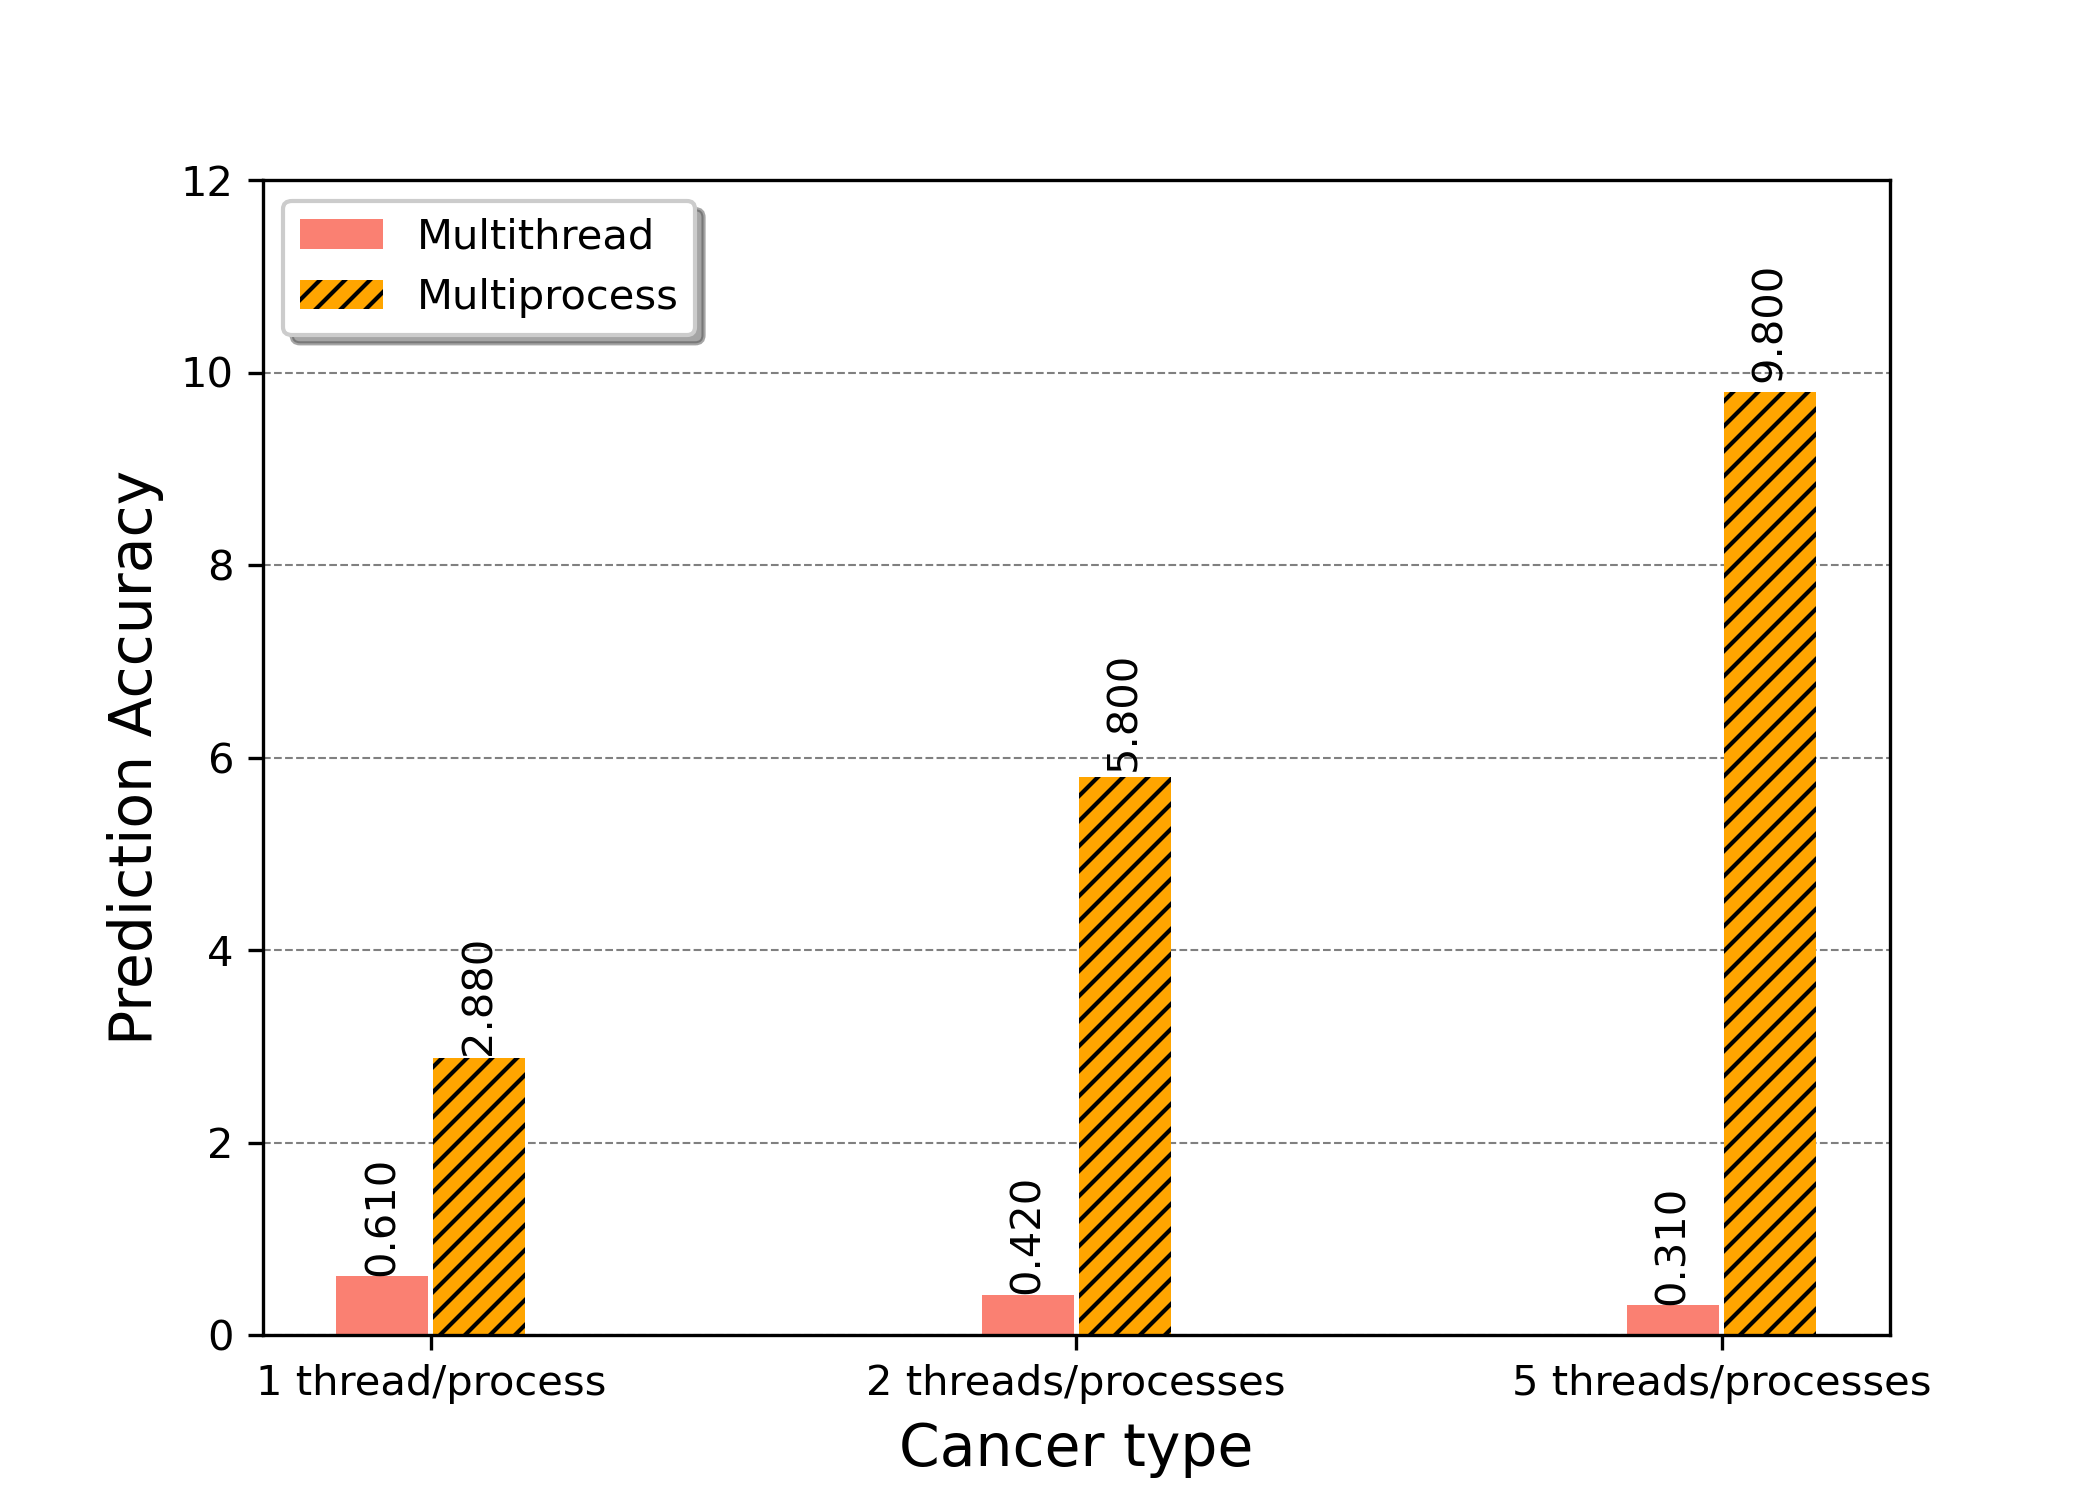
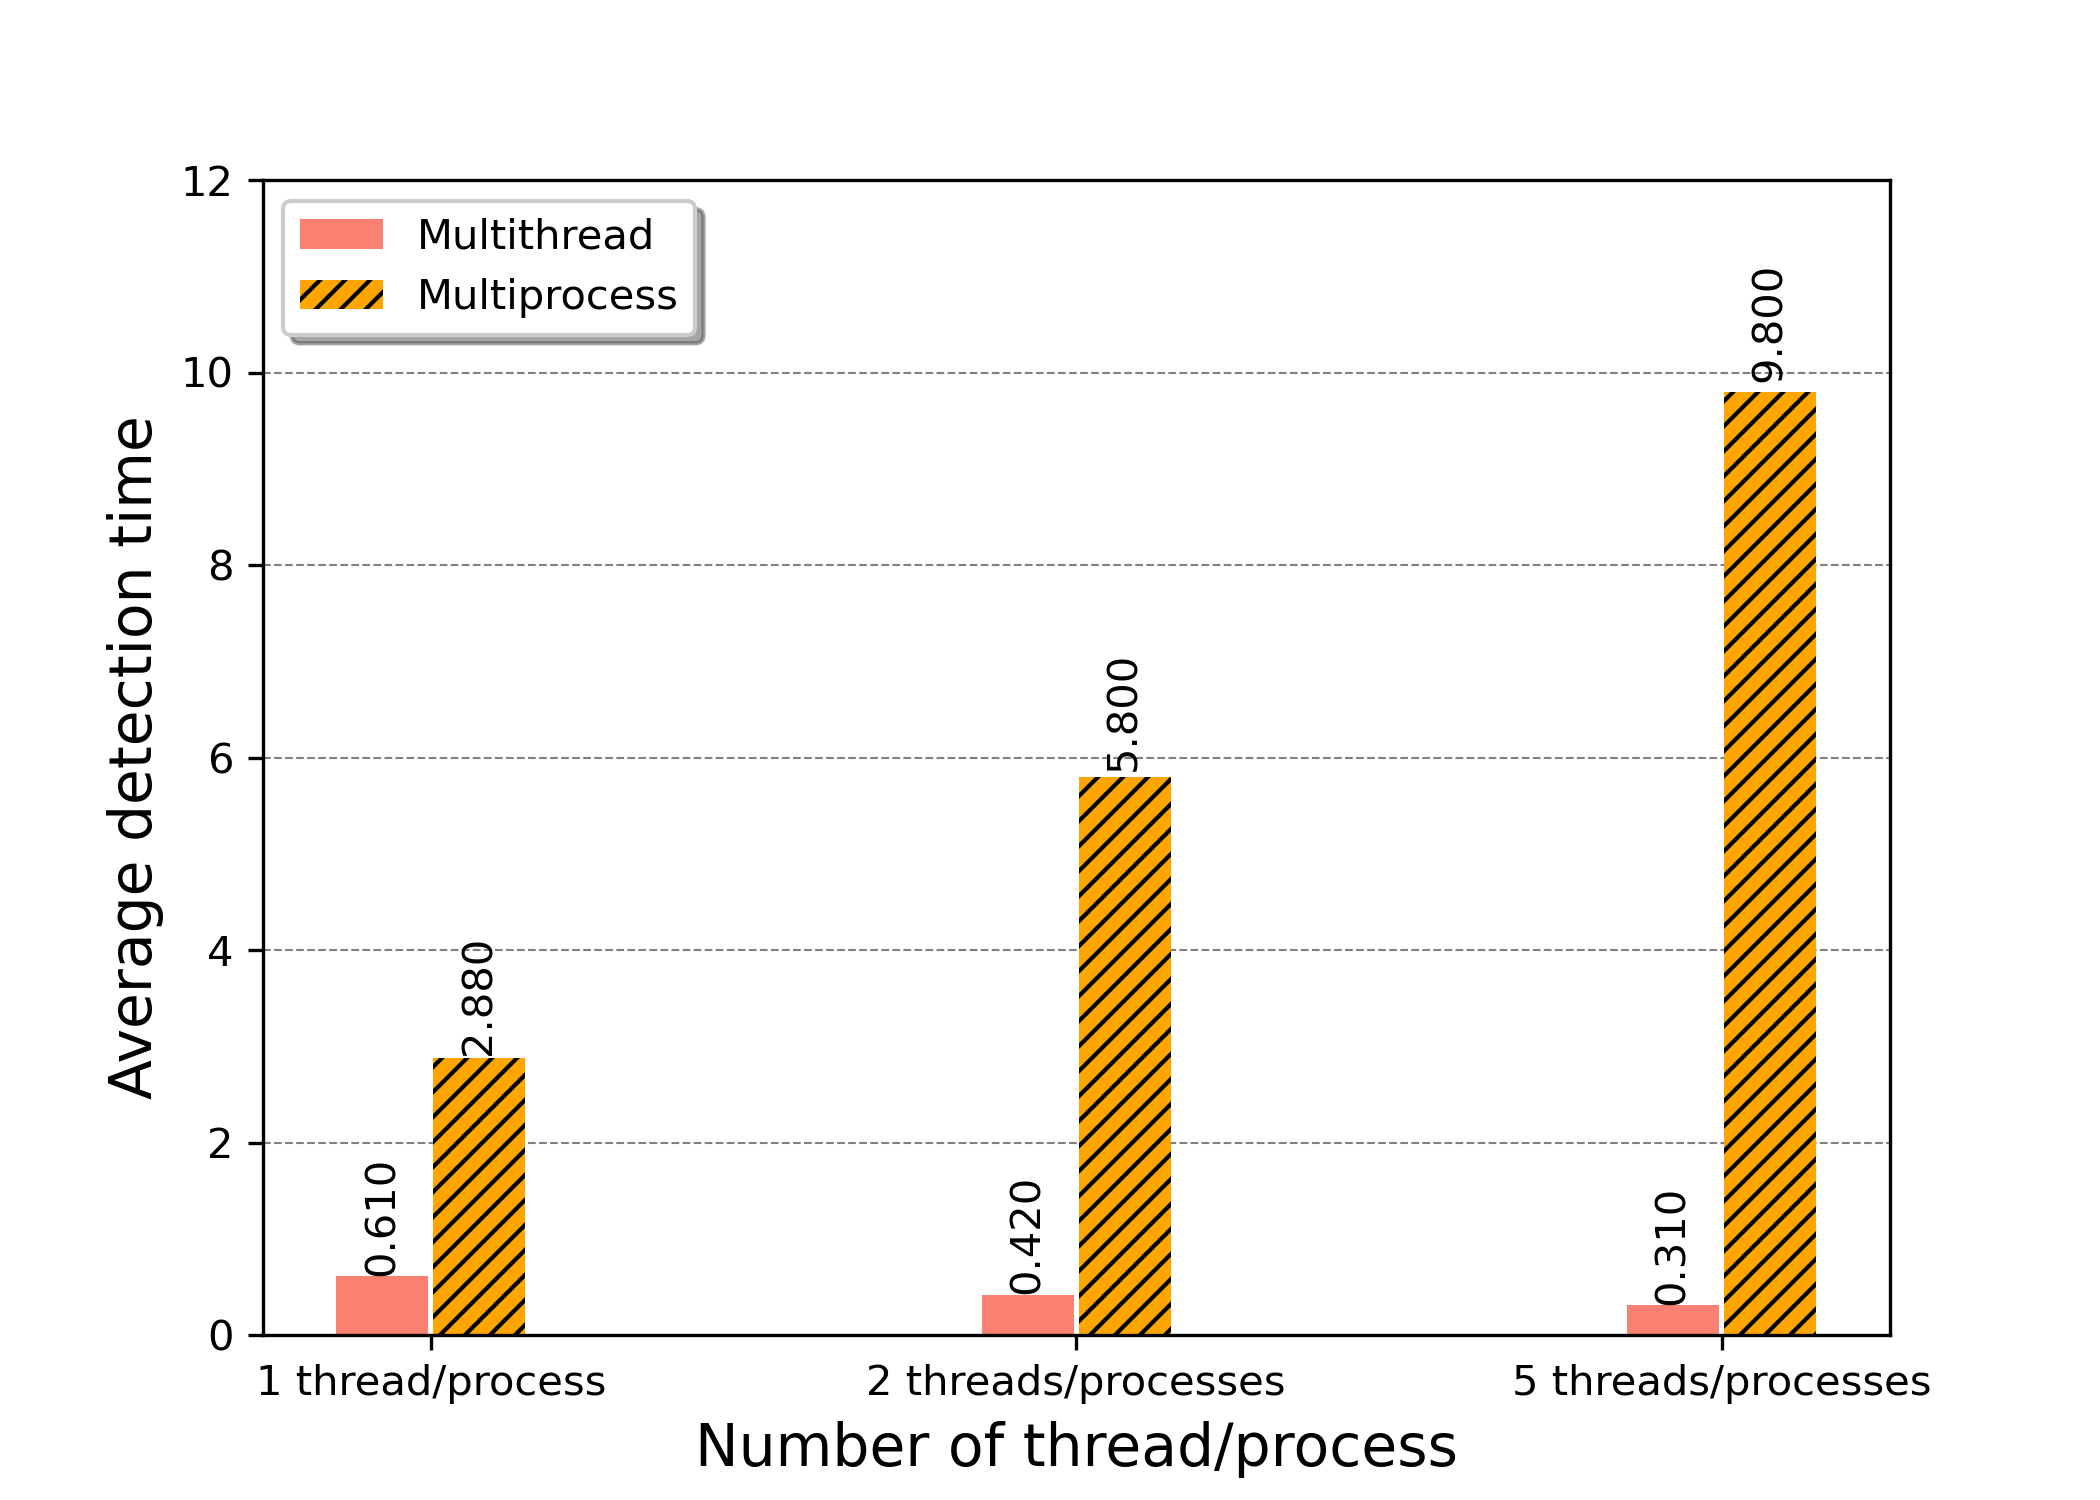
[UPDATE]

Changed region(s): [[0.031, 0.276, 0.0929, 0.736], [0.3095, 0.9507, 0.7119, 0.9813]]

diff --git a/scopechain/blockchain.py b/scopechain/blockchain.py
@@ -8,11 +8,12 @@ import requests
 import datetime
 import concurrent.futures
 import sys
-from multiprocessing import Process, Value
-from ctypes import c_bool, c_int
-# Block chain
 
-getTime = 0
+flags = False
+proof_Result = None
+time_cnt = 0
+arr = [0, 0, 0, 0, 0, 0, 0, 0, 0, 0, 0, 0, 0, 0, 0]
+# Block chain
 
 
 class Blockchain:
@@ -159,24 +160,13 @@ class Blockchain:
             block, sort_keys=True).encode()
         return hashlib.sha256(block_string).hexdigest()
 
-    def find_proof(self, flags, idx, last_proof, proof, last_hash, proof_result, start, end):
-
-        for i in range(start, end):
-            # print('fun{0} now PROOF : {1}'.format(idx, proof))
-            if flags.value is True:
-                # print('[fun{0}] flags.value is True'.format(idx))
-                break
-            if self.valid_proof(last_proof, proof, last_hash) is True:
-                flags.value = True
-                proof_result.value = proof
-                print('[fun{0} is finished] proof : {1}'.format(
-                    idx, proof_result.value))
-                print('NOW FLAGS : ', flags.value)
-                break
-            proof += 1
-
     def proof_of_work(self, last_block):
-        global getTime
+        start_time = time.time()
+        global flags
+        global proof_Result
+        global time_cnt
+        flags = False
+        proof_Result = None
         """
             Simple Proof of Work Algorithm:
             - Find a number p' such that hash(pp') contains leading 4 zeroes
@@ -189,33 +179,104 @@ class Blockchain:
         last_proof = last_block['proof']
         last_hash = self.hash(last_block)
 
-        # Flags
-        flags = Value(c_bool, False)
-        proof_result = Value(c_int, 0)
+        # proof = 0
+        # while self.valid_proof(last_proof, proof, last_hash) is False:
+        #     proof += 1
 
-        # Proof
+        # end_time = time.time()
+        # print("프루프 걸린 시간 : {} sec".format(end_time-start_time))
+        # time_cnt += end_time-start_time
+        # print('현재까지 걸린 시간 : ', time_cnt)
+        # print('평균시간 : ', time_cnt/100)
+        # return proof
+
         proof1 = 0
-        proof2 = 75001
-        proof3 = 150001
-        proof4 = 225001
-        proof5 = 300001
+        proof2 = 30001
+        proof3 = 60001
+        proof4 = 90001
+        proof5 = 120001
+        proof6 = 150001
+        proof7 = 180001
+        proof8 = 210001
+        proof9 = 240001
+        proof10 = 270001
+        proof11 = 300001
 
-        start_time = time.time()
-        p1 = Process(target=self.find_proof, args=(flags, 0,
-                                                   last_proof, proof1, last_hash, proof_result, 0, sys.maxsize))
+        def fun1(last_proof, proof, last_hash, start, finish, idx):
+            global proof_Result
+            global flags
+            global arr
+            # print('fun{0} now flags : {1}'.format(idx, flags))
+            for i in range(start, finish):
+                if flags:
+                    break
+                if self.valid_proof(last_proof, proof, last_hash) is True:
+                    flags = True
+                    proof_Result = proof
+                    arr[idx-1] += 1
+                    print('[fun{0} is finished] proof : {1}'.format(
+                        idx, proof_Result))
+                    break
+                proof += 1
 
-        p1.start()
-        p1.join()
+        th1 = threading.Thread(target=fun1, args=(
+            last_proof, proof1, last_hash, 0, sys.maxsize, 1))
+
+        # th2 = threading.Thread(target=fun1, args=(
+        #     last_proof, proof2, last_hash, 30001, 60001, 2))
+
+        # th3 = threading.Thread(target=fun1, args=(
+        #     last_proof, proof3, last_hash, 60001, 90001, 3))
+
+        # th4 = threading.Thread(target=fun1, args=(
+        #     last_proof, proof4, last_hash, 90001, 120001, 4))
+
+        # th5 = threading.Thread(target=fun1, args=(
+        #     last_proof, proof5, last_hash, 120001, 150001, 5))
+
+        # th6 = threading.Thread(target=fun1, args=(
+        #     last_proof, proof6, last_hash, 150001, 180001, 6))
+
+        # th7 = threading.Thread(target=fun1, args=(
+        #     last_proof, proof7, last_hash, 180001, 210001, 7))
+
+        # th8 = threading.Thread(target=fun1, args=(
+        #     last_proof, proof8, last_hash, 210001, 240001, 8))
+
+        # th9 = threading.Thread(target=fun1, args=(
+        #     last_proof, proof9, last_hash, 240001, 270001, 9))
+
+        # th10 = threading.Thread(target=fun1, args=(
+        #     last_proof, proof10, last_hash, 270001, 300001, 10))
+
+        # th11 = threading.Thread(target=fun1, args=(
+        #     last_proof, proof11, last_hash, 300001, sys.maxsize, 11))
+
+        th1.start()
+        # th2.start()
+        # th3.start()
+        # th4.start()
+        # th5.start()
+        # th6.start()
+        # th7.start()
+        # th8.start()
+        # th9.start()
+        # th10.start()
+        # th11.start()
+
+        if flags is not True:
+            th1.join()
 
         end_time = time.time()
-        print('TIMETIMETIMETIME : ', end_time-start_time)
-        getTime += end_time-start_time
+        print('proof result : {}'.format(proof_Result))
+        # print("프루프 걸린 시간 : {} sec".format(end_time-start_time))
+        time_cnt += end_time-start_time
+        print('현재까지 걸린 시간 : ', time_cnt)
+        print('평균시간 : ', time_cnt/100)
+        print('범위 별 정보 : ', arr)
+        print('cannot found : ', 100 - sum(arr))
 
-        print('걸린 평균 시간 : ', getTime/100)
-
-        print('proof_result : ', proof_result.value)
-
-        return proof_result.value
+        return proof_Result
 
     @ staticmethod
     def valid_proof(last_proof, proof, last_hash):

diff --git a/scopechain/app.py b/scopechain/app.py
@@ -93,7 +93,7 @@ def new_mine():
     print("걸린 시간 : {} sec".format(end_time-start_time))
     mine_cnt += 1
     # threading.Timer(5, new_mine).start()
-    threading.Timer(0, new_mine).start()
+    # threading.Timer(0, new_mine).start()
 
 
 @ app.route('/nodes/register', methods=['POST'])
@@ -123,43 +123,45 @@ def new_tran():
     global img_tmp
     global cnt
 
-    test = catchCam()
+    for i in range(1, 51):
+        test = catchCam()
 
-    # b64로 인코드 후 utf-8로 디코딩함
-    b64 = base64.b64encode(pickle.dumps(test))
-    b64 = b64.decode('utf-8')
+        # b64로 인코드 후 utf-8로 디코딩함
+        b64 = base64.b64encode(pickle.dumps(test))
+        b64 = b64.decode('utf-8')
 
-    # jsonObj = json.dumps(
-    #     {'snapshot': b64, 'timestamp': str(datetime.datetime.now())}, ensure_ascii=False)
-    jsonObj = json.dumps(
-        {'snapshot': b64, 'timestamp': str(datetime.datetime.now())}, ensure_ascii=False)
-    jsonObj = json.loads(jsonObj)
-    filename = 'test{0}.jpg'.format(cnt)
-    with open(filename, 'wb') as f:
-        cv2.imwrite(filename, np.array(test.tolist()))
+        # jsonObj = json.dumps(
+        #     {'snapshot': b64, 'timestamp': str(datetime.datetime.now())}, ensure_ascii=False)
+        jsonObj = json.dumps(
+            {'snapshot': b64, 'timestamp': str(datetime.datetime.now())}, ensure_ascii=False)
+        jsonObj = json.loads(jsonObj)
+        filename = 'test{0}.jpg'.format(cnt)
+        with open(filename, 'wb') as f:
+            cv2.imwrite(filename, np.array(test.tolist()))
 
-    # Bot part
-    # Convert numpy array to Image using PIL
-    converted_img = Image.fromarray(test, 'RGB')
+        # Bot part
+        # Convert numpy array to Image using PIL
+        converted_img = Image.fromarray(test, 'RGB')
 
-    # 나중에 def로 분리할지 생각 해보기
-    bio = BytesIO()
-    bio.name = str(uuid.uuid4())
-    converted_img.save(bio, 'JPEG')
-    bio.seek(0)
+        # 나중에 def로 분리할지 생각 해보기
+        bio = BytesIO()
+        bio.name = str(uuid.uuid4())
+        converted_img.save(bio, 'JPEG')
+        bio.seek(0)
 
-    required = ['snapshot', 'timestamp']
-    if not all(k in jsonObj for k in required):
-        return 'Missing values', 400
+        required = ['snapshot', 'timestamp']
+        if not all(k in jsonObj for k in required):
+            return 'Missing values', 400
 
-    # Create a new Transaction
-    # index = blockchain.new_transaction(
-    #     jsonObj['location'], jsonObj['name'], jsonObj['phone'])
-    index = blockchain.new_transaction(
-        jsonObj['snapshot'], jsonObj['timestamp'])
+        # Create a new Transaction
+        # index = blockchain.new_transaction(
+        #     jsonObj['location'], jsonObj['name'], jsonObj['phone'])
+        index = blockchain.new_transaction(
+            jsonObj['snapshot'], jsonObj['timestamp'])
     # print('트랜잭션 생성 완료')
     # print(blockchain.current_transactions)
-    threading.Timer(6, new_tran).start()
+    new_mine()
+    threading.Timer(0, new_tran).start()
 
 
 imgCnt = 0
@@ -267,7 +269,7 @@ if __name__ == '__main__':
     # p2.start()
     # p3.start()
 
-    new_mine()
+    # new_mine()
     new_tran()
     # p1.join()
     # p3.join()

diff --git a/scopechain/chart/chart5.py b/scopechain/chart/chart5.py
@@ -61,13 +61,13 @@ def main():
     # 4. x축 세부설정
     ax.set_xticks(range(len(xticks)))
     ax.set_xticklabels(xticks, fontsize=10)
-    ax.set_xlabel('Cancer type', fontsize=14)
+    ax.set_xlabel('Number of thread/process', fontsize=14)
 
     # 5. y축 세부설정
     ax.set_ylim([0, 12])
     # ax.set_yticks([0.5, 0.55, 0.6, 0.65, 0.7, 0.75])
     ax.yaxis.set_tick_params(labelsize=10)
-    ax.set_ylabel('Prediction Accuracy', fontsize=14)
+    ax.set_ylabel('Average detection time', fontsize=14)
 
     # 6. 범례 나타내기
     ax.legend(loc='upper left', shadow=True, ncol=1)
